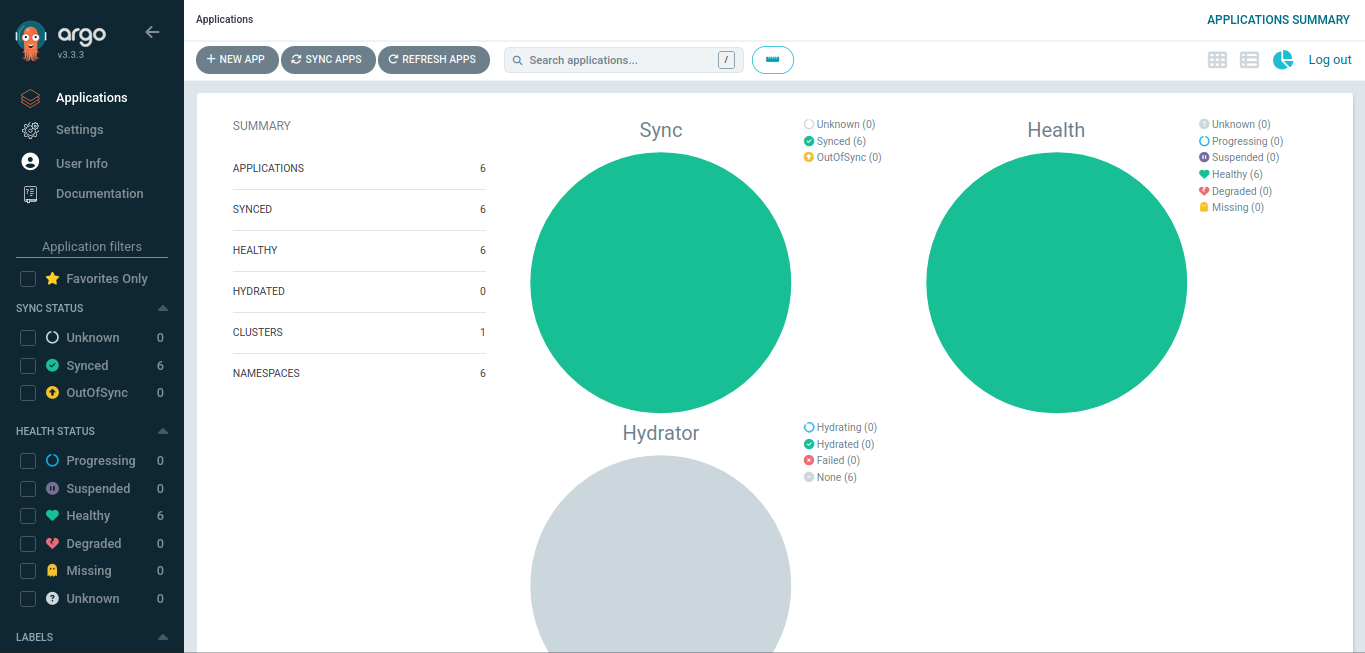
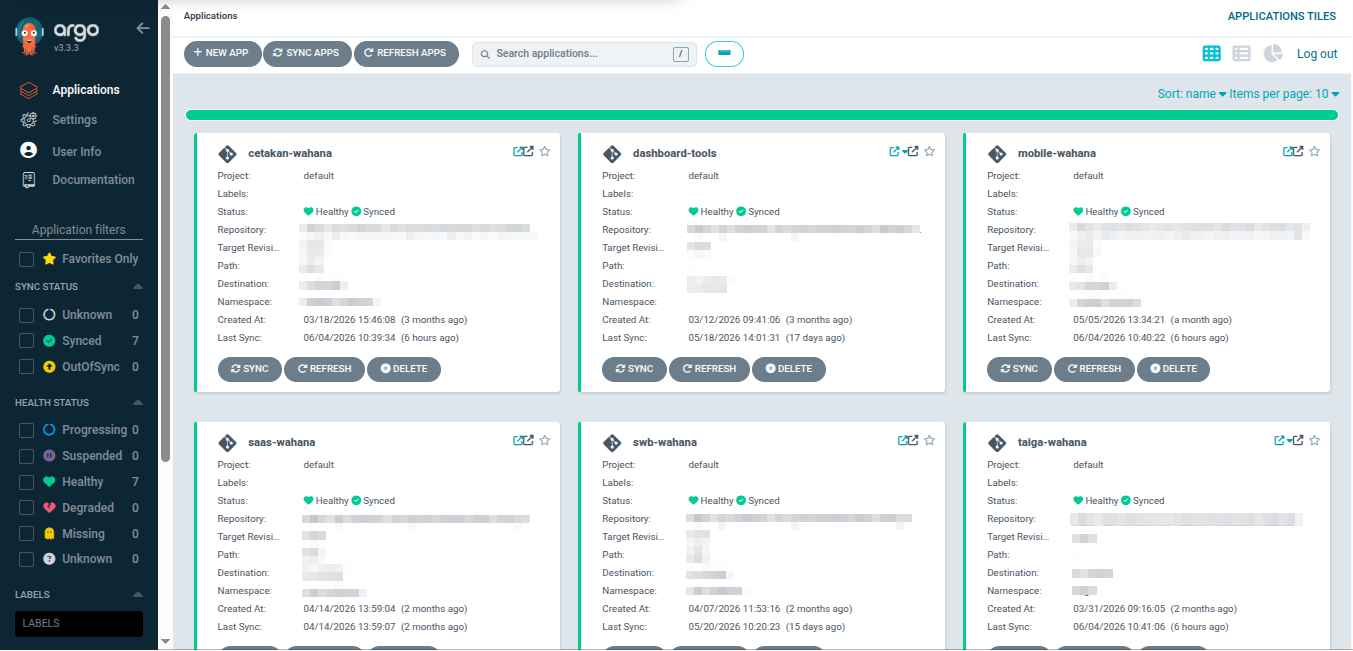
adding detail to project portfolio

diff --git a/src/components/PortfolioSection.vue b/src/components/PortfolioSection.vue
@@ -10,7 +10,7 @@ const emit = defineEmits(['view-project'])
 const filters = [
   { id: 'all', label: 'All Projects' },
   { id: 'devops', label: 'DevOps' },
-  { id: 'php', label: 'PHP/Laravel' },
+  { id: 'php', label: 'Website Projects' },
   { id: 'cloud', label: 'Cloud' }
 ]
 
@@ -19,11 +19,31 @@ const projects = [
     title: 'On Premise Infrastructure',
     description: 'Architected and deployed scalable on-premise & VM infrastructure using Kubernetes. Configured high-availability clusters and automated environment provisioning via Terraform.',
     images: [
-      '/images/projects/pods kubernetes.png',
-      '/images/projects/HPA.png',
-      '/images/projects/ESO.png'
+      '/images/projects/kubernetes_nodes.png',
+      '/images/projects/External_secret.png',
+      '/images/projects/locust_testingHPA.jpg'
     ],
-    tags: ['Kubernetes', 'Docker', 'Terraform', 'Proxmox'],
+    sections: [
+      {
+        title: 'Building from the Ground Up',
+        content: 'I built this on-premise infrastructure project entirely from scratch using the Debian operating system. To ensure consistency, standardization, and rapid deployment, I utilized Terraform as an Infrastructure as Code (IaC) provisioning tool to automatically build the Kubernetes cluster, eliminating error-prone manual interventions.',
+        image: '/images/projects/kubernetes_nodes.png',
+        imagePosition: 'right'
+      },
+      {
+        title: 'High Availability & Scaling',
+        content: 'Once the cluster was successfully established, the next challenge was ensuring uninterrupted service (High Availability). I implemented HPA (Horizontal Pod Autoscaler) across every pod running within Kubernetes. With this configuration, the system can dynamically scale the number of pod replicas up or down based on real-time CPU or memory loads.',
+        image: '/images/projects/locust_testingHPA.jpg',
+        imagePosition: 'left'
+      },
+      {
+        title: 'Security & Secret Management',
+        content: 'Security is always a top priority when designing infrastructure. Storing environment variables directly in source code or manifests is highly risky. To mitigate this vulnerability, I set up ESO (External Secrets Operator) as a centralized vault for environment variables. With ESO, all secrets and sensitive credentials are securely managed outside the source code and synchronized directly into the cluster only when needed.',
+        image: '/images/projects/External_secret.png',
+        imagePosition: 'none'
+      }
+    ],
+    tags: ['Kubernetes', 'Docker', 'Terraform', 'Debian', 'HPA', 'ESO'],
     category: 'devops',
     link: '#'
   },
@@ -41,18 +61,37 @@ const projects = [
   // },
   {
     title: 'CI/CD Pipeline Automation',
-    description: 'Designed and implemented robust end-to-end continuous integration and deployment workflows. Integrated Docker, GitLab Runner, and GitHub Actions to reduce manual deployment errors.',
+    description: 'Designed and implemented robust end-to-end continuous integration and deployment workflows. Integrated Docker, GitLab Runner, and ArgoCD to reduce manual deployment errors.',
     images: [
       '/images/projects/argocd.png',
-      // '/images/projects/grafana.png',
       '/images/projects/GitlabCI.png'
     ],
-    tags: ['Jenkins', 'GitHub Actions', 'Docker'],
+    sections: [
+      {
+        title: 'GitLab CI Integration',
+        content: 'I integrated the deployment workflow with the company\'s self-hosted GitLab repository using GitLab CI. This automation streamlines the development process by eliminating the need for developers to build container images manually, significantly reducing human error and saving valuable time.',
+        image: '/images/projects/GitlabCI.png',
+        imagePosition: 'right'
+      },
+      {
+        title: 'Automated Deployment with ArgoCD',
+        content: 'Following the CI pipeline, I implemented ArgoCD to fully automate the image deployment process. By adopting a GitOps approach, ArgoCD continuously monitors the repository and automatically synchronizes the latest container images into the Kubernetes cluster.',
+        image: '/images/projects/argocd.png',
+        imagePosition: 'left'
+      },
+      {
+        title: 'Seamless Implementation',
+        content: 'Both of these tools were meticulously configured and integrated to work seamlessly together. The resulting end-to-end pipeline operates reliably, ensuring continuous delivery and a highly efficient, automated deployment lifecycle.',
+        image: null,
+        imagePosition: 'none'
+      }
+    ],
+    tags: ['GitLab CI', 'ArgoCD'],
     category: 'cloud',
     link: '#'
   },
   {
-    title: 'Freelance Project',
+    title: 'Website Projects',
     description: 'Delivered a tailored multi-tenant SaaS application for a freelance client. Executed isolated PostgreSQL database handling connected to a responsive Vue.js frontend.',
     images: [
       '/images/projects/nabung_presentation.png',
@@ -70,6 +109,26 @@ const projects = [
       '/images/projects/grafana-k8s.png',
       '/images/projects/headlamp.png',
       '/images/projects/headlamp-maps.png'
+    ],
+    sections: [
+      {
+        title: 'Resource Monitoring & Logging',
+        content: 'After deploying the application to the Kubernetes cluster, I implemented a robust observability stack using Prometheus and Grafana to monitor system resources. Additionally, I integrated Loki for centralized log aggregation, ensuring comprehensive visibility across the entire infrastructure.',
+        image: '/images/projects/grafana-k8s.png',
+        imagePosition: 'right'
+      },
+      {
+        title: 'Cluster Visualization with Headlamp',
+        content: 'Beyond Grafana and Prometheus, I deployed Headlamp as an intuitive Kubernetes web UI. This tool provides in-depth monitoring of the Kubernetes cluster itself, allowing me to easily inspect and manage crucial resources such as secrets, Horizontal Pod Autoscalers (HPA), and network configurations.',
+        image: '/images/projects/headlamp.png',
+        imagePosition: 'left'
+      },
+      {
+        title: 'Transitioning to Visual Dashboards',
+        content: 'The implementation of these tools drastically reduced the reliance on manual debugging and CLI-based monitoring. By transitioning to a fully comprehensive visual dashboard ecosystem, the team can now diagnose issues faster, track performance intuitively, and maintain system health with far greater efficiency.',
+        image: '/images/projects/headlamp-maps.png',
+        imagePosition: 'right'
+      }
     ],
     tags: ['Prometheus', 'Grafana', 'Loki', 'Headlamp'],
     category: 'devops',

diff --git a/src/components/ProjectDetail.vue b/src/components/ProjectDetail.vue
@@ -29,6 +29,23 @@
     <div class="project-detail__gallery-wrapper">
       <CircularGallery :items="project.images" />
     </div>
+
+    <!-- Rich Content Sections -->
+    <div v-if="project.sections && project.sections.length > 0" class="project-detail__content">
+      <div 
+        v-for="(section, idx) in project.sections" 
+        :key="idx"
+        :class="['content-section', `content-section--img-${section.imagePosition}`]"
+      >
+        <div class="content-section__text">
+          <h2>{{ section.title }}</h2>
+          <p>{{ section.content }}</p>
+        </div>
+        <div v-if="section.image" class="content-section__image">
+          <img :src="section.image" :alt="section.title" loading="lazy" />
+        </div>
+      </div>
+    </div>
   </div>
 </template>
 
@@ -180,6 +197,86 @@ onMounted(() => {
   
   .project-detail__tags {
     justify-content: flex-start;
+  }
+}
+
+/* Rich Content Styles */
+.project-detail__content {
+  max-width: 1000px;
+  margin: var(--space-4xl) auto;
+  padding: 0 var(--space-xl);
+  display: flex;
+  flex-direction: column;
+  gap: var(--space-4xl);
+}
+
+.content-section {
+  display: flex;
+  align-items: center;
+  gap: var(--space-3xl);
+}
+
+.content-section--img-left {
+  flex-direction: row-reverse;
+}
+
+.content-section--img-none .content-section__text {
+  max-width: 800px;
+  margin: 0 auto;
+  text-align: center;
+}
+
+.content-section__text {
+  flex: 1;
+}
+
+.content-section__text h2 {
+  font-size: var(--font-size-2xl);
+  color: var(--color-text-primary);
+  margin-bottom: var(--space-md);
+  font-weight: 700;
+}
+
+.content-section__text p {
+  font-size: var(--font-size-base);
+  color: var(--color-text-secondary);
+  line-height: 1.8;
+}
+
+.content-section__image {
+  flex: 1;
+  border-radius: var(--radius-xl);
+  overflow: hidden;
+  border: 1px solid var(--color-border);
+  box-shadow: var(--shadow-lg);
+  max-height: 400px;
+  display: flex;
+  align-items: center;
+  justify-content: center;
+}
+
+.content-section__image img {
+  width: 100%;
+  height: auto;
+  object-fit: cover;
+  display: block;
+}
+
+@media (max-width: 768px) {
+  .project-detail__content {
+    gap: var(--space-3xl);
+  }
+  
+  .content-section,
+  .content-section--img-left {
+    flex-direction: column;
+    text-align: center;
+    gap: var(--space-xl);
+  }
+  
+  .content-section__image {
+    width: 100%;
+    max-height: none;
   }
 }
 </style>

diff --git a/src/components/Carousel/Carousel.vue b/src/components/Carousel/Carousel.vue
@@ -47,22 +47,28 @@
         }"
         :transition="effectiveTransition"
       >
-        <div :class="round ? 'p-0 m-0' : 'mb-4 p-5'">
-          <span class="flex h-[28px] w-[28px] items-center justify-center rounded-full bg-[#0b0b0b]">
-            <span v-html="item.icon" class="text-white text-base flex items-center justify-center [&>svg]:w-4 [&>svg]:h-4"></span>
+        <div v-if="!round" class="mb-4 p-5">
+          <span class="flex items-center justify-center rounded-full h-[28px] w-[28px] bg-[#0b0b0b]">
+            <span v-html="item.icon" class="flex items-center justify-center text-white text-base [&>svg]:w-4 [&>svg]:h-4"></span>
           </span>
         </div>
 
-        <div class="p-5">
-          <div class="mb-1 font-black text-lg text-white">{{ item.title }}</div>
+        <div :class="round ? 'px-4 pb-4' : 'p-5'">
+          <div :class="[
+            'font-black mb-1',
+            round ? 'text-5xl tracking-tight text-transparent bg-clip-text bg-gradient-to-br from-[#00d4aa] to-[#0099ff] drop-shadow-sm' : 'text-lg text-white'
+          ]">{{ item.title }}</div>
 
-          <p class="text-sm text-white">{{ item.description }}</p>
+          <p :class="[
+            'text-sm',
+            round ? 'text-[#9898a6] font-medium leading-snug mt-2' : 'text-white'
+          ]">{{ item.description }}</p>
         </div>
       </Motion>
     </Motion>
 
     <div :class="['flex w-full justify-center', round ? 'absolute z-20 bottom-12 left-1/2 -translate-x-1/2' : '']">
-      <div class="mt-4 flex w-[150px] justify-between px-8">
+      <div class="mt-4 flex gap-3">
         <Motion
           v-for="(_, index) in items"
           :key="index"

diff --git a/src/components/HeroSection.vue b/src/components/HeroSection.vue
@@ -34,7 +34,7 @@ import profileImg from '@/assets/profile.png'
             :show-user-info="true"
             :enable-tilt="true"
             :show-behind-gradient="false"
-            inner-gradient="linear-gradient(145deg, rgba(20,20,30,0.9) 0%, rgba(15,15,25,0.95) 100%)"
+            inner-gradient="linear-gradient(145deg, rgba(25,25,25,0.9) 0%, rgba(10,10,10,0.95) 100%)"
             behind-gradient="none"
           />
         </div>
@@ -128,7 +128,7 @@ import profileImg from '@/assets/profile.png'
 .hero__overlay {
   position: absolute;
   inset: 0;
-  background: linear-gradient(180deg, rgba(10,10,15,0.3) 0%, rgba(10,10,15,0.8) 70%, rgba(10,10,15,1) 100%);
+  background: linear-gradient(180deg, rgba(0,0,0,0.3) 0%, rgba(0,0,0,0.8) 70%, rgba(0,0,0,1) 100%);
   z-index: 1;
 }
 
@@ -160,7 +160,7 @@ import profileImg from '@/assets/profile.png'
   max-height: 420px !important;
   /* Remove colorful background, keep dark with subtle border */
   background-image: none !important;
-  background-color: #0d0d18 !important;
+  background-color: #050505 !important;
   border: 1px solid rgba(255, 255, 255, 0.08) !important;
 }
 
@@ -186,8 +186,8 @@ import profileImg from '@/assets/profile.png'
 
 /* Clean inner background */
 :deep(.pc-inside) {
-  background-color: rgba(10, 10, 20, 0.95) !important;
-  background-image: linear-gradient(145deg, rgba(20,20,30,0.9) 0%, rgba(12,12,22,0.95) 100%) !important;
+  background-color: rgba(10, 10, 10, 0.95) !important;
+  background-image: linear-gradient(145deg, rgba(20,20,20,0.9) 0%, rgba(5,5,5,0.95) 100%) !important;
 }
 
 /* Make avatar show normally without color blending */

diff --git a/src/components/ExperienceSection.vue b/src/components/ExperienceSection.vue
@@ -16,15 +16,15 @@ const experiences = [
     company: 'Gunadarma University',
     period: 'Okt 2023 - Dec 2025',
     description: 'As an IT staff at the Information Systems Lab, I managed hardware/software maintenance and network troubleshooting for seamless operations. Alongside supporting practical sessions, I accurately handled large-scale data entry for hundreds of student records to optimize administration',
-    tags: ['Docker', 'Terraform', 'MySQL', 'Vue.js']
+    tags: ['MySQL', 'Vue.js', 'Linux', 'PHP', 'UI/UX', 'Programming Logic']
   },
   {
     id: 3,
-    title: 'Forensic Digital',
+    title: 'Forensic Digital Intern',
     company: 'Direktorat Jenderal Pajak',
     period: 'Nov 2024 - Jan 2020',
-    description: 'Maintained Linux servers, managed backups, and provided technical support for enterprise clients. Configured monitoring tools to ensure 99.9% uptime.',
-    tags: ['Linux', 'Bash', 'Networking', 'Monitoring']
+    description: 'Explored digital forensics in tax investigations to detect evidence manipulation. I utilized FTK Imager for data acquisition, applied hashing to verify data integrity, and analyzed metadata to validate file authenticity. This hands-on experience significantly deepened my understanding of compliance and investigative workflows.',
+    tags: ['Tax Management', 'FTK Imager', 'Autopsy', 'Hashing', 'Metadata']
   }
 ]
 </script>

diff --git a/src/components/FooterSection.vue b/src/components/FooterSection.vue
@@ -22,6 +22,7 @@
             <li><a href="#home">Home</a></li>
             <li><a href="#about">About</a></li>
             <li><a href="#skills">Skills</a></li>
+            <li><a href="#experience">Experience</a></li>
             <li><a href="#portfolio">Portfolio</a></li>
             <li><a href="#contact">Contact</a></li>
           </ul>
@@ -45,7 +46,6 @@
 
       <div class="footer__bottom">
         <p>&copy; {{ new Date().getFullYear() }} Damar Ardian Alfirisky. All rights reserved.</p>
-        <p class="footer__built">Built with Vue.js & ❤</p>
       </div>
     </div>
   </footer>

diff --git a/src/assets/base.css b/src/assets/base.css
@@ -1,11 +1,11 @@
 /* ===== Design System ===== */
 :root {
   /* Colors */
-  --color-bg-primary: #0a0a0f;
-  --color-bg-secondary: #12121a;
-  --color-bg-card: #16161f;
-  --color-bg-card-hover: #1c1c28;
-  --color-bg-glass: rgba(22, 22, 31, 0.7);
+  --color-bg-primary: #000000;
+  --color-bg-secondary: #050505;
+  --color-bg-card: #0a0a0a;
+  --color-bg-card-hover: #111111;
+  --color-bg-glass: rgba(0, 0, 0, 0.7);
 
   --color-text-primary: #e8e8ed;
   --color-text-secondary: #9898a6;

diff --git a/src/components/SkillsSection.vue b/src/components/SkillsSection.vue
@@ -85,7 +85,7 @@ const skillCategories = [
           :edge-sensitivity="20"
           :cone-spread="30"
           :fill-opacity="0.3"
-          background-color="#12121a"
+          background-color="var(--color-bg-card)"
         >
           <div class="skills__card-inner">
             <div class="skills__card-header">
